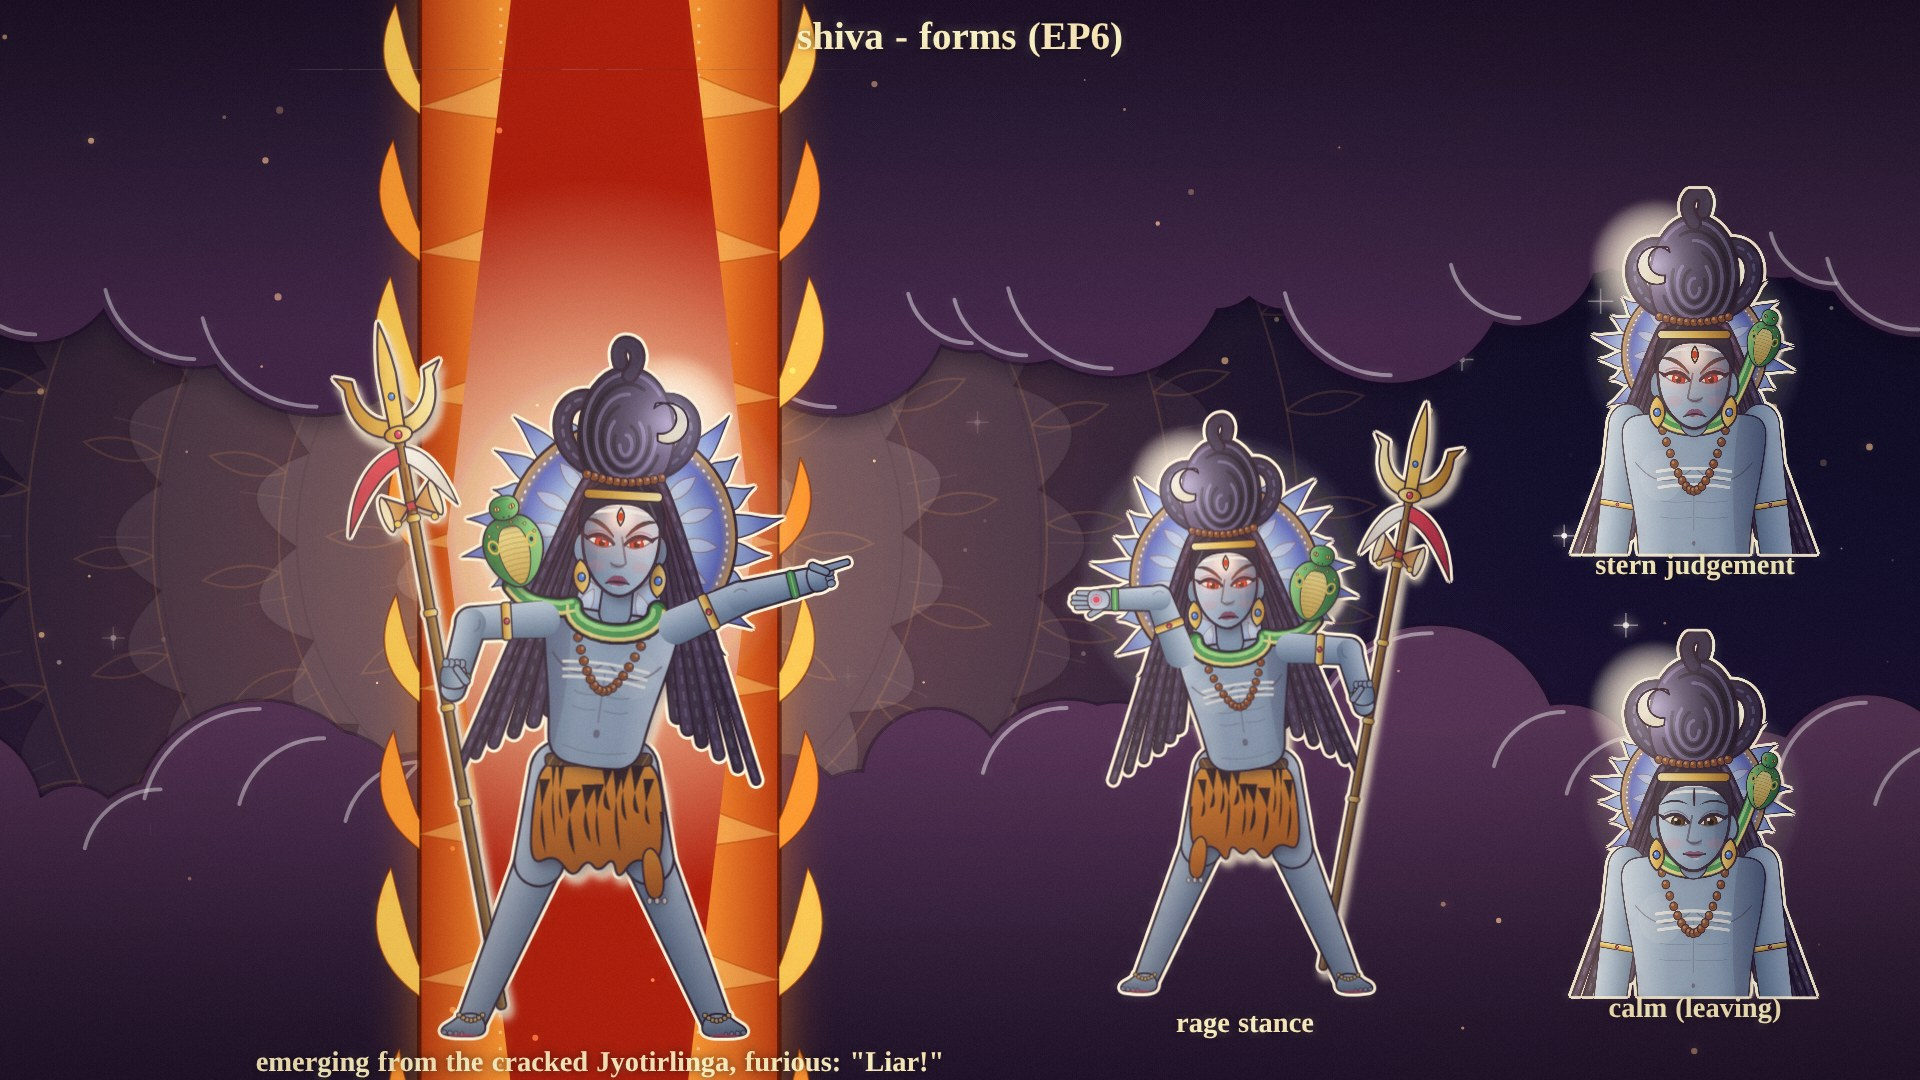
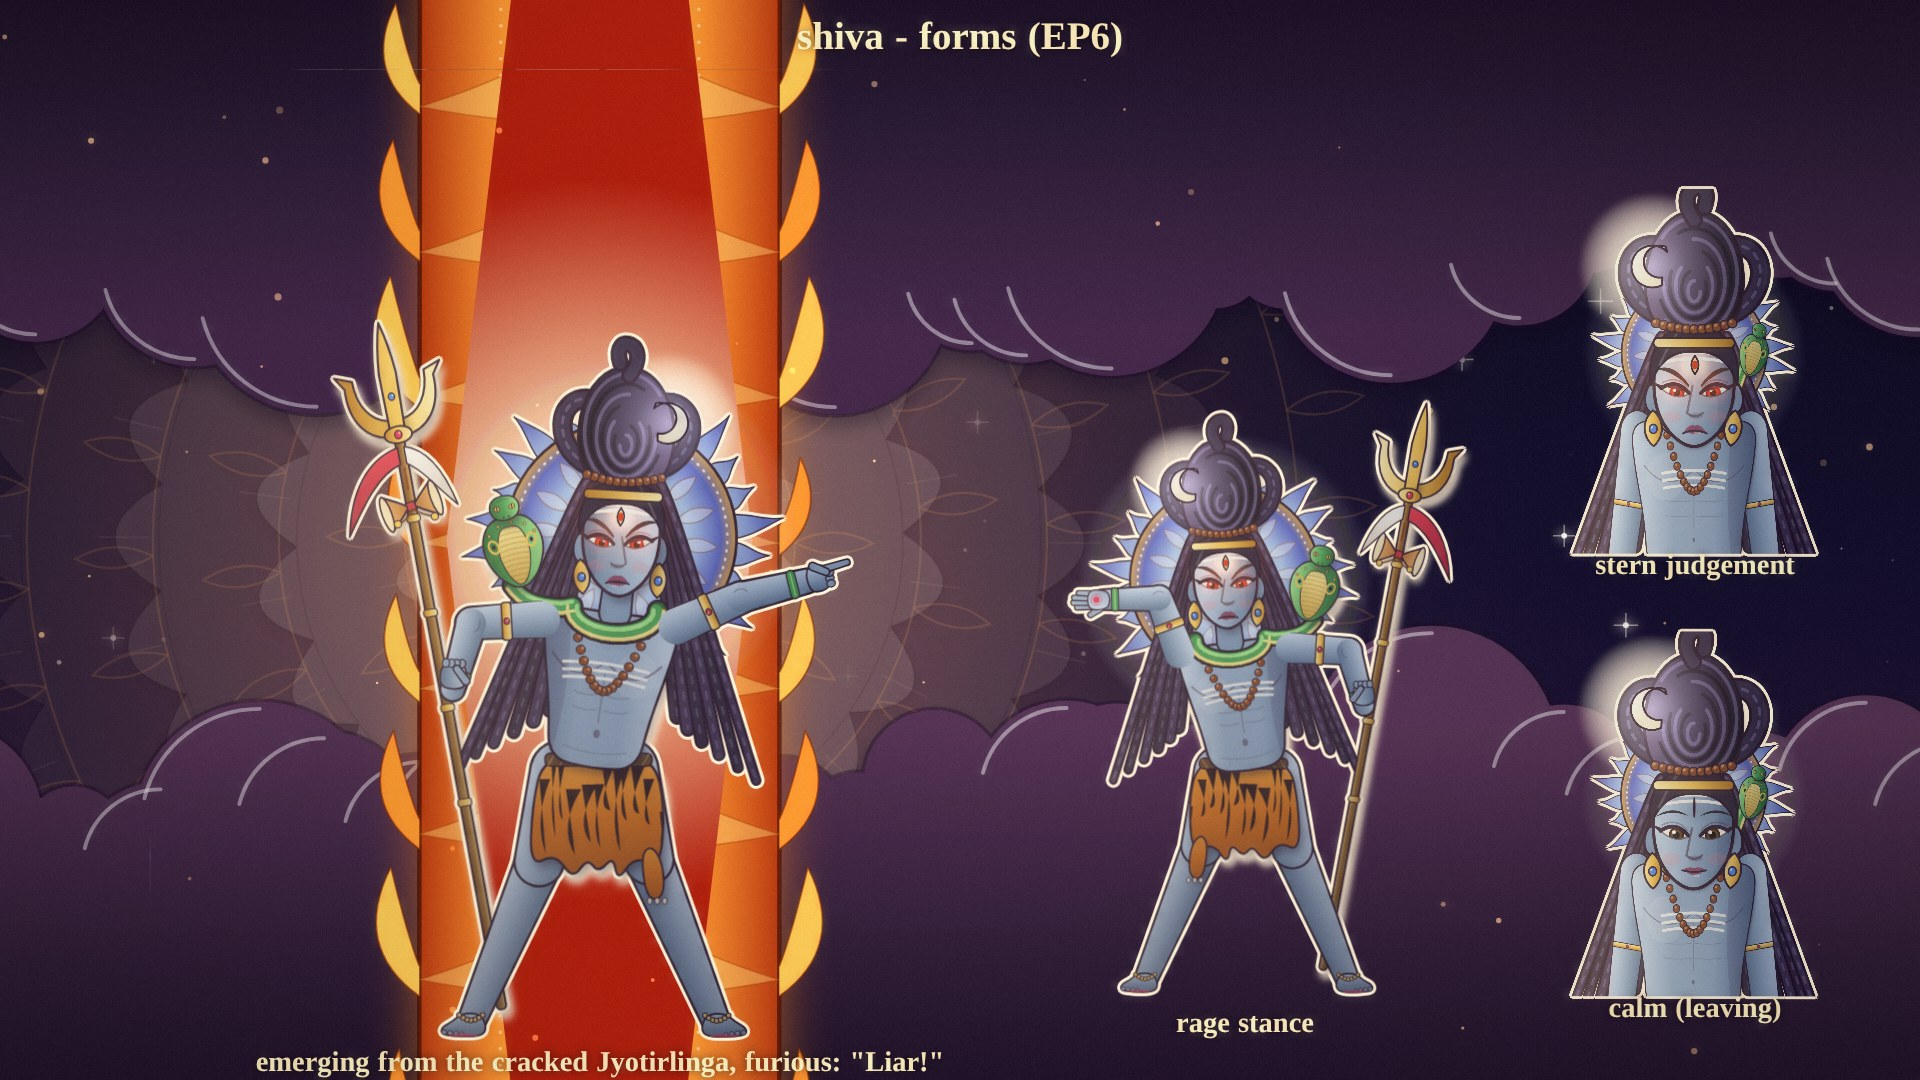
Shiva close-up: head clearly larger than shoulders
Claude-Session: https://claude.ai/code/session_01Ec4SCjc7mpKu4xcSrfyjyA

Changed region(s): [[0.8125, 0.5806, 0.9375, 0.9472], [0.8125, 0.1833, 0.9375, 0.5194]]

diff --git a/engine/v2_cast.js b/engine/v2_cast.js
@@ -456,7 +456,7 @@ function bust(c,S,o){const sk=skinPK(S),t=o.t||0,bw=Math.min(S.build||1,1.2);c.s
 function v2head(who,x,y,s,t,o){ // close-up of the head with neck, shoulders and garments
   const OYH=1300,FR=clamp(s*SC_,2,3.9),RG=[-300,-330,600,640];const c=figBegin(FR,OYH,RG);PK.setDPR(FR);const ex=o.expr||{},kk=ex.brow!=null&&ex.brow<-.2?clamp(-ex.brow*1.1,0,1):0,face=ex.eye!=null&&ex.eye<.5?'closed':'calm';
   if(o.flip<0)c.scale(-1,1);c.scale(1.32,1.32);const M=o.mood,turn=o.tilt?0:.06;
-  if(who==='shiva'){const S=CAST.shiva;c.translate(0,-6);c.scale(.86,.86);PK.halo(c,0,-30,112,t,Object.assign({g:.55,n:26},S.halo));c.save();c.translate(0,10);c.scale(1.58,1.58);hairBack(c,S,{hd:[0,0],ph:[0,200]},t);c.restore();c.save();c.scale(.84,.95);bust(c,S,{t:t,k:kk});c.restore();c.save();c.translate(0,10);c.scale(1.72,1.72);drawHead(c,0,0,{expr:face==='closed'?'closed':'calm',k:kk,S:S,t:t,mood:M,turn:turn});hairFront(c,S,0,0,t);c.restore()}
+  if(who==='shiva'){const S=CAST.shiva;c.translate(0,-6);c.scale(.86,.86);PK.halo(c,0,-30,112,t,Object.assign({g:.55,n:26},S.halo));c.save();c.translate(0,30);c.scale(1.68,1.68);hairBack(c,S,{hd:[0,0],ph:[0,200]},t);c.restore();c.save();c.translate(0,14);c.scale(.72,.88);bust(c,S,{t:t,k:kk});c.restore();c.save();c.translate(0,30);c.scale(1.9,1.9);drawHead(c,0,0,{expr:face==='closed'?'closed':'calm',k:kk,S:S,t:t,mood:M,turn:turn});hairFront(c,S,0,0,t);c.restore()}
   else if(who==='brahma'){const S=BRAHMA;PK.halo(c,0,-40,108,t,{g:.5,n:26});bust(c,S,{t:t});
     const side=(x2,tn)=>{c.save();c.translate(x2,12);c.scale(.8,.8);c.filter='brightness(.8)';drawHead(c,0,0,{expr:face,k:kk*.8,S:S,t:t+x2*.01,mood:Object.assign({smile:.2},M&&M.sad?{sad:M.sad*.8}:{}),turn:tn});c.save();c.scale(1-Math.abs(tn)*.3,1);PK.hairCap(c,'#e6e0da');PK.jataMukuta(c);c.restore();c.filter='none';c.restore()};
     side(-62,-.6);side(62,.6);drawHead(c,0,0,{expr:face,k:kk,S:S,t:t,mood:M,turn:turn});PK.hairCap(c,'#e6e0da');PK.jataMukuta(c)}
